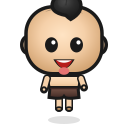
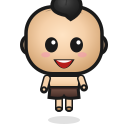
Keep blush on cheeks & remove tongue from mouth
- Re-added pink blush spots at cheek level (next to eyes, not under chin)
- Removed tongue ellipse from happy/celebrate mouth expression

https://claude.ai/code/session_015pMPoBHWnGv3b918Z49D2y

Changed region(s): [[0.4375, 0.5, 0.5625, 0.5938], [0.3125, 0.4062, 0.4062, 0.4688], [0.5938, 0.4062, 0.6562, 0.4375]]

diff --git a/src/templates/chibi_parts.js b/src/templates/chibi_parts.js
@@ -163,7 +163,13 @@ function chibiHead(opts = {}) {
     drawEye(eyeR, eyeY, expr === 'thinking');
   }
 
-  // (không có chấm hồng má)
+  // ── Má hồng (ngay má, 2 bên mắt) ──
+  if (showBlush) {
+    body += `    <!-- Blush -->\n`;
+    const blushY = eyeY + eyeRY + r * 0.06;
+    body += `    <ellipse cx="${cx - r * 0.48}" cy="${blushY}" rx="${r * 0.12}" ry="${r * 0.07}" fill="#F48FB1" opacity="0.5" />\n`;
+    body += `    <ellipse cx="${cx + r * 0.48}" cy="${blushY}" rx="${r * 0.12}" ry="${r * 0.07}" fill="#F48FB1" opacity="0.5" />\n`;
+  }
 
   // ── Miệng — cười hở, bên trong có răng trắng + lưỡi hồng (giống mẫu 100%) ──
   body += `    <!-- Mouth -->\n`;
@@ -179,8 +185,6 @@ function chibiHead(opts = {}) {
     body += `    <path d="M${cx - mw + 2} ${mouthY + 1} Q ${cx} ${mouthY + mh * 2}, ${cx + mw - 2} ${mouthY + 1} Z" fill="#B71C1C" />\n`;
     // Răng trắng trên (hình bán nguyệt nhỏ sát mép trên)
     body += `    <path d="M${cx - mw + 3} ${mouthY + 1} Q ${cx} ${mouthY + mh * 0.7}, ${cx + mw - 3} ${mouthY + 1} Z" fill="#FFFFFF" />\n`;
-    // Lưỡi hồng tròn ở dưới
-    body += `    <ellipse cx="${cx}" cy="${mouthY + mh * 1.4}" rx="${mw * 0.5}" ry="${mh * 0.45}" fill="#E57373" />\n`;
   } else if (expr === 'hurt') {
     // Miệng méo
     const mw = r * 0.14;
